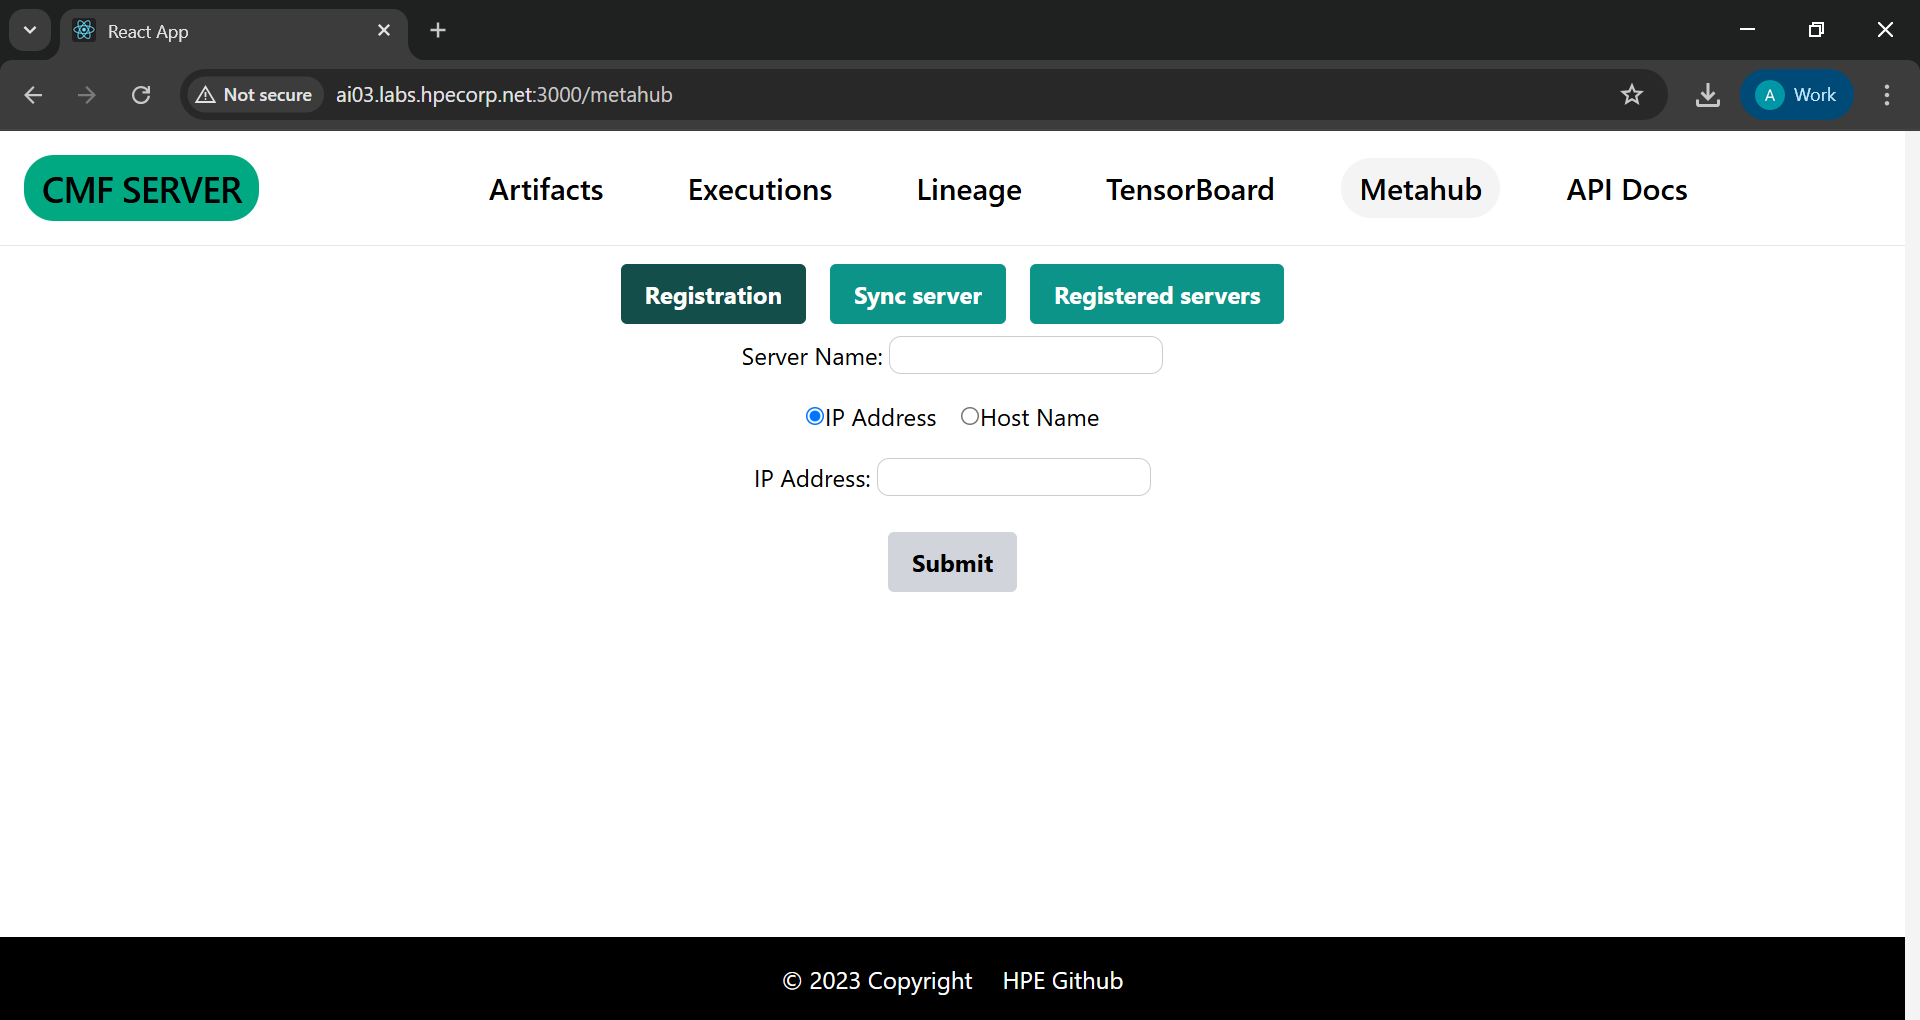
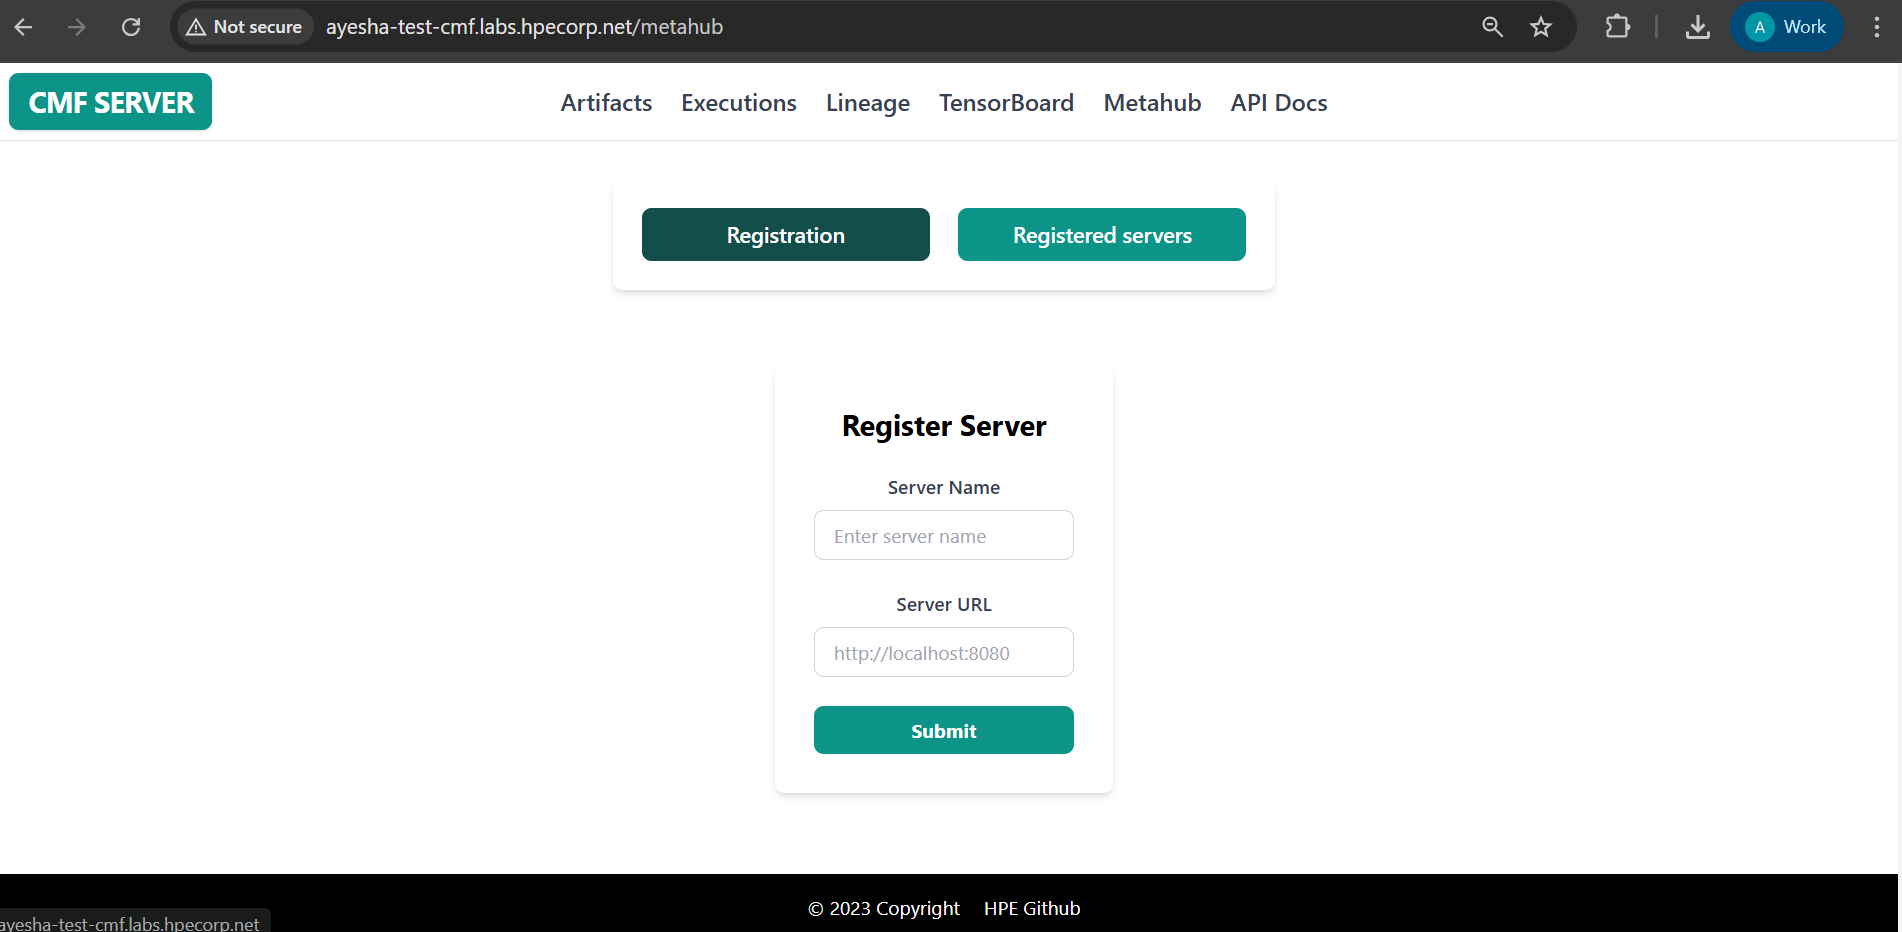
Updated metahub page to latest changes

diff --git a/docs/cmf_server/metahub-tab-usage.md b/docs/cmf_server/metahub-tab-usage.md
@@ -7,7 +7,7 @@ The **Metahub** feature is introduced to **synchronize metadata between two CMF 
 ## Steps to Use Metahub feature
 
 ### 1. Start the CMF Server
-Ensure that the CMF server is up and running. you can follow below document.
+Ensure that the CMF server is up and running. You can follow the document below.
 
 [Guide to start CMF Server](./../setup/index.md#install-cmf-server-with-gui)
 
@@ -17,11 +17,10 @@ Ensure that the CMF server is up and running. you can follow below document.
 
 In the GUI, locate and click the **Metahub** tab from the navigation panel.
 
-> After clicking the Metahub tab, you will see three tabs:
+> After clicking the Metahub tab, you will see two tabs:
 
 - **Registration** → Register a new server for syncing.
-- **Sync Server** → Perform sync with a registered server.
-- **Registered Server** → View the list of registered servers.
+- **Registered Servers** → View the list of registered servers and perform sync with registered servers.
 
 
 ![metahub_ui_overview.png](../assets/metahub_ui_overview.png)
@@ -34,37 +33,31 @@ The **Registration** tab allows you to register another server that you want to 
 
 ### Functionality:
 1. Register the target server you want to sync with.
-2. You can provide either:
-      - Server Name + IP Address  
-      **or**  
-      - Server Name + Hostname
+2. You can provide:
+      - Server Name  
+      **AND**  
+      - Server URL
 3. Click **Submit**. You’ll receive a message confirming whether the server registration was successful.
 
 ![registration_form](../assets/registration_form.png)
 
 ---
 
-## Sync Server Tab
-
-The **Sync Server** tab is used to sync metadata with a registered target server.
-
-### Functionality:
-1. A dropdown will show all the **registered target servers**.
-2. Select a server from the list.
-3. Click to **sync**. If the selected server is available and properly registered, the sync will succeed. Otherwise, it will fail.
-
-![sync_server](../assets/sync_server.png)
----
-
-## Registered Server Tab
+## Registered Servers Tab
 
 This section displays all registered servers in a table format.
 
 ### Functionality:
 1. View the list of all registered target servers.
 2. The table includes a **`last_sync_time`** column to indicate when each server was last successfully synced.
+3. You can **`Sync`** the current server with registered servers.
+
+![registered_servers_page](../assets/registered_servers_page.png)
 
 ![registered_server_table](../assets/registered_server_table.png)
+
+![sync_with_registered_server](../assets/sync_server.png)
+
 
 ---
 
